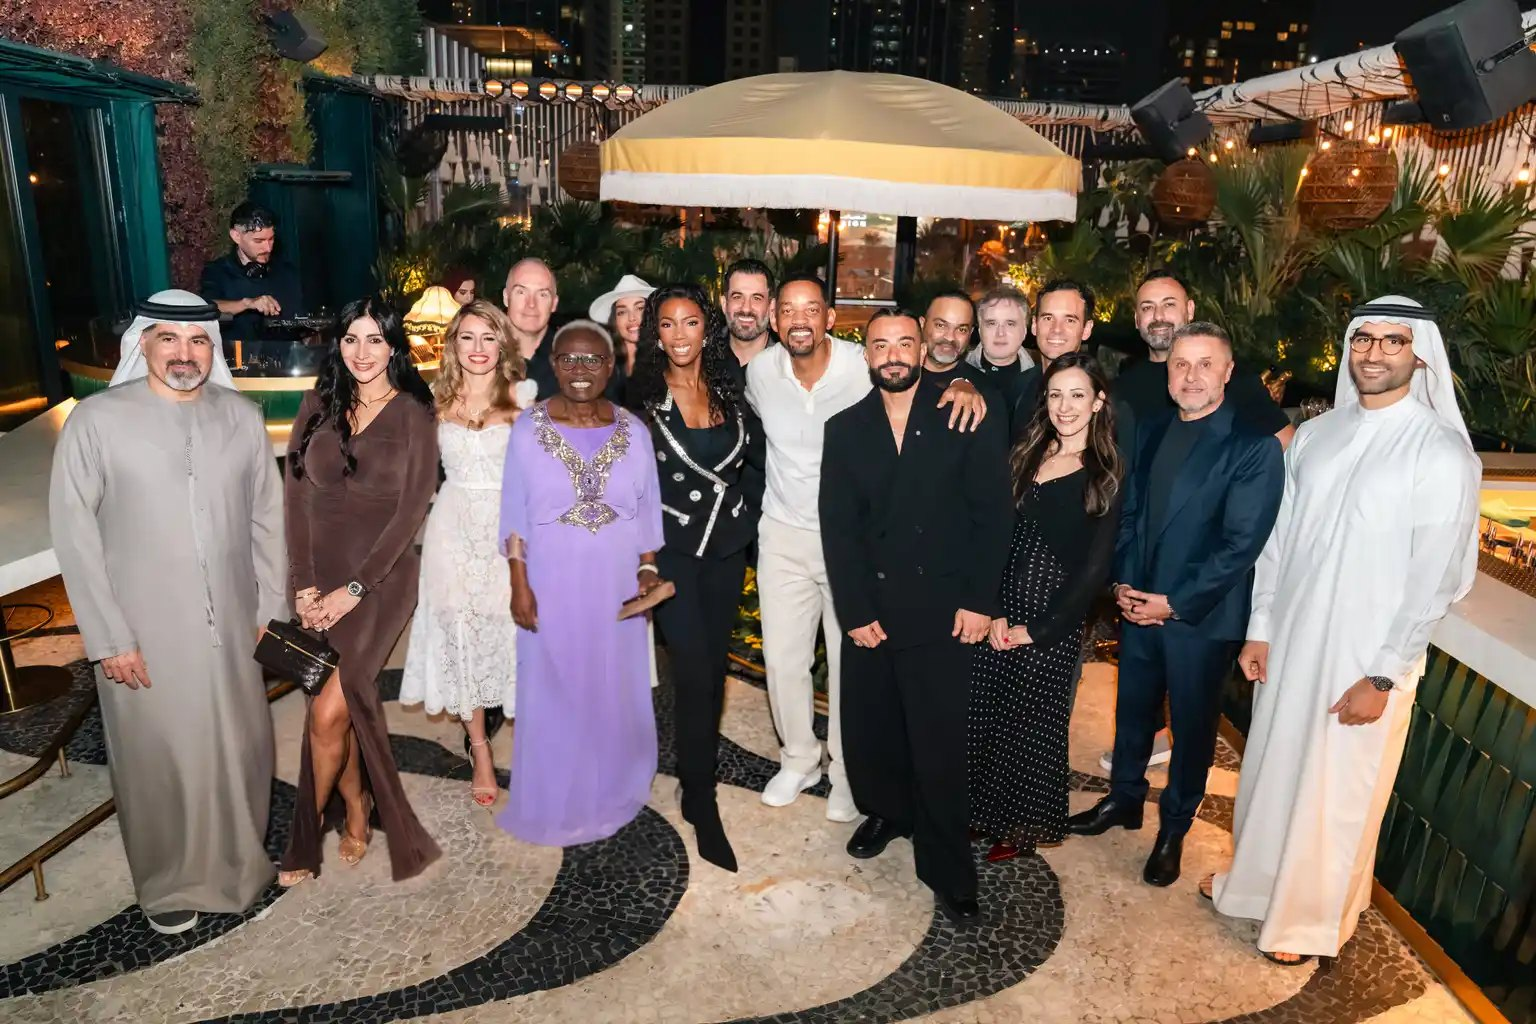
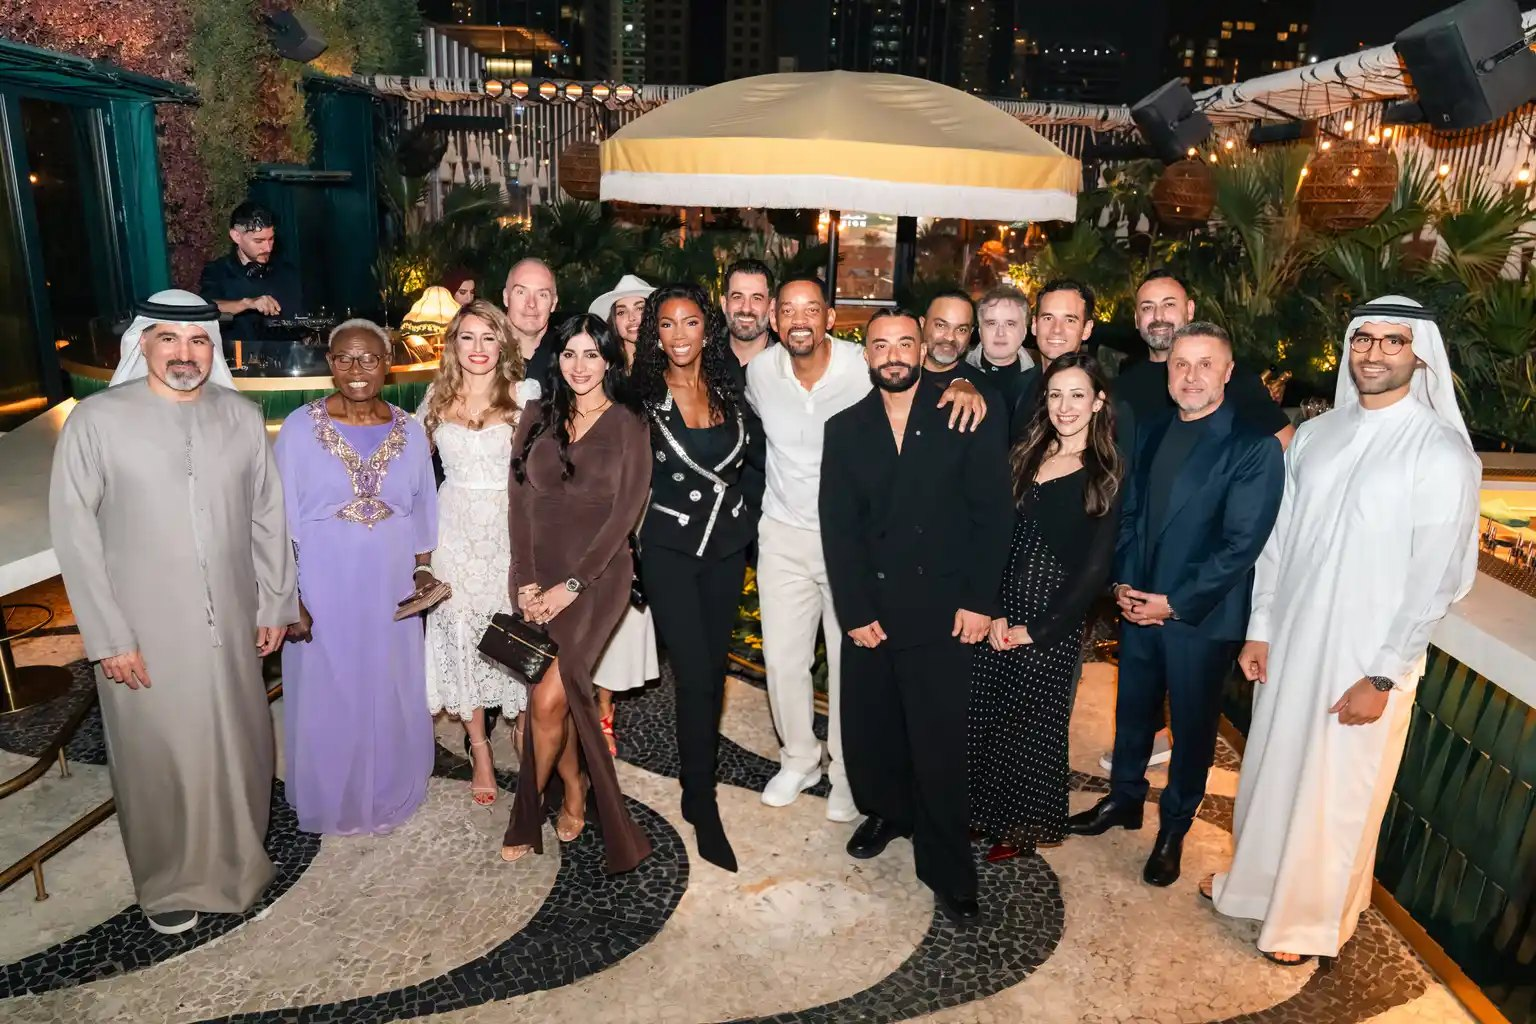
Use the client's founders portrait and updated group photo
The founders are cut out of the supplied studio portrait and placed on
the dark hero background at the mockup's position, on both the home and
Majlis pages. The Majlis section uses the newer group photo.

Also fixes the Majlis heading falling back to the sans font on phones.

Claude-Session: https://claude.ai/code/session_01XsJAtWLozv6nW1Ryxn33iH

Changed region(s): [[0.1562, 0.2812, 0.4688, 0.875]]

diff --git a/style.css b/style.css
@@ -100,8 +100,8 @@ textarea.ctl{height:calc(87 * var(--u));padding-top:calc(13 * var(--u));resize:n
 /* ---------- PHONES: stack the poster layout ---------- */
 @media (max-width:640px){
   :root{--u:calc(100vw / 400)}
-  .h-hero{height:auto;padding:calc(28 * var(--u)) calc(16 * var(--u)) calc(300 * var(--u))}
-  .h-hero .photo{left:0;transform:none;width:100%;top:auto;bottom:0;height:calc(300 * var(--u));background-size:auto calc(300 * var(--u));background-position:78% 100%}
+  .h-hero{height:auto;padding:calc(28 * var(--u)) calc(16 * var(--u)) calc(340 * var(--u))}
+  .h-hero .photo{left:0;transform:none;width:100%;top:auto;bottom:0;height:calc(340 * var(--u));background-size:auto calc(340 * var(--u));background-position:100% 100%}
   .logo,.h-hero .copy,.h-hero .btn,.h-hero .bar{position:relative;left:0;top:0}
   .logo{font-size:calc(64 * var(--u))}
   .h-hero .bar{margin:calc(16 * var(--u)) 0 calc(20 * var(--u))}
@@ -125,9 +125,9 @@ textarea.ctl{height:calc(87 * var(--u));padding-top:calc(13 * var(--u));resize:n
   .h-majlis .copy{white-space:normal}
   .h-majlis .copy br{display:none}
   .h-majlis .btn{margin-top:calc(24 * var(--u))}
-  .m-hero{height:auto;padding:calc(36 * var(--u)) calc(16 * var(--u)) calc(300 * var(--u))}
-  .m-hero .photo{left:0;transform:none;width:100%;top:auto;bottom:0;height:calc(300 * var(--u));background-size:auto calc(300 * var(--u));background-position:70% 100%}
-  .m-hero .kicker,.m-hero .display,.m-hero .bar,.m-hero .copy{font-family:var(--body);position:relative;left:0;top:0}
+  .m-hero{height:auto;padding:calc(36 * var(--u)) calc(16 * var(--u)) calc(280 * var(--u))}
+  .m-hero .photo{left:0;transform:none;width:100%;top:auto;bottom:0;height:calc(280 * var(--u));background-size:auto calc(280 * var(--u));background-position:100% 100%}
+  .m-hero .kicker,.m-hero .display,.m-hero .bar,.m-hero .copy{position:relative;left:0;top:0}
   .m-hero .bar{margin:calc(12 * var(--u)) 0 calc(16 * var(--u))}
   .m-hero .copy{font-family:var(--body);white-space:normal}
   .m-hero .copy br{display:none}

diff --git a/src/style.src.css b/src/style.src.css
@@ -100,8 +100,8 @@ textarea.ctl{height:87u;padding-top:13u;resize:none;line-height:1.45}
 /* ---------- PHONES: stack the poster layout ---------- */
 @media (max-width:640px){
   :root{--u:calc(100vw / 400)}
-  .h-hero{height:auto;padding:28u 16u 300u}
-  .h-hero .photo{left:0;transform:none;width:100%;top:auto;bottom:0;height:300u;background-size:auto 300u;background-position:78% 100%}
+  .h-hero{height:auto;padding:28u 16u 340u}
+  .h-hero .photo{left:0;transform:none;width:100%;top:auto;bottom:0;height:340u;background-size:auto 340u;background-position:100% 100%}
   .logo,.h-hero .copy,.h-hero .btn,.h-hero .bar{position:relative;left:0;top:0}
   .logo{font-size:64u}
   .h-hero .bar{margin:16u 0 20u}
@@ -125,9 +125,9 @@ textarea.ctl{height:87u;padding-top:13u;resize:none;line-height:1.45}
   .h-majlis .copy{white-space:normal}
   .h-majlis .copy br{display:none}
   .h-majlis .btn{margin-top:24u}
-  .m-hero{height:auto;padding:36u 16u 300u}
-  .m-hero .photo{left:0;transform:none;width:100%;top:auto;bottom:0;height:300u;background-size:auto 300u;background-position:70% 100%}
-  .m-hero .kicker,.m-hero .display,.m-hero .bar,.m-hero .copy{font-family:var(--body);position:relative;left:0;top:0}
+  .m-hero{height:auto;padding:36u 16u 280u}
+  .m-hero .photo{left:0;transform:none;width:100%;top:auto;bottom:0;height:280u;background-size:auto 280u;background-position:100% 100%}
+  .m-hero .kicker,.m-hero .display,.m-hero .bar,.m-hero .copy{position:relative;left:0;top:0}
   .m-hero .bar{margin:12u 0 16u}
   .m-hero .copy{font-family:var(--body);white-space:normal}
   .m-hero .copy br{display:none}

diff --git a/README.md b/README.md
@@ -7,4 +7,4 @@ Static build of two KS Konnect pages, matched to the supplied mockups.
 
 `style.css` is generated from `src/style.src.css`. In the source, `Nu` means N pixels on the 853px-wide mockup and becomes `calc(N * var(--u))`, so the desktop layout keeps the mockup's proportions at any width up to 1280px. Phones get a single-column layout.
 
-The Majlis event photo (`img/majlis-event.jpg`) is the client's photo. The two portrait photos are still placeholders cropped from the mockups.
+The founders portrait (`img/home-hero.jpg`, `img/majlis-hero.jpg`) and the Majlis event photo (`img/majlis-event.jpg`) are the client's photos. The portrait is cut out and placed on the dark background at the mockup's position.
